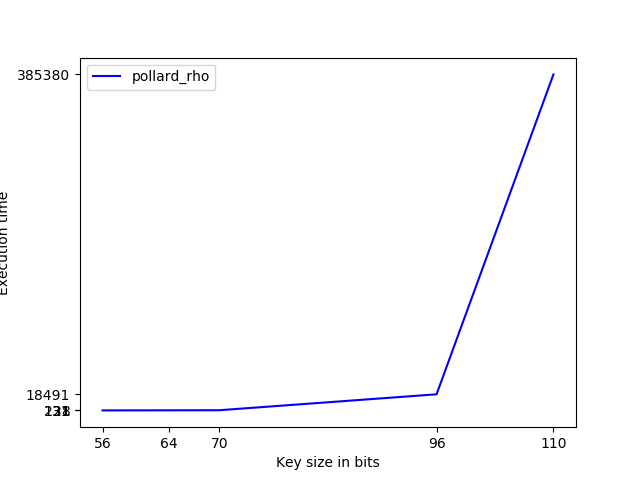
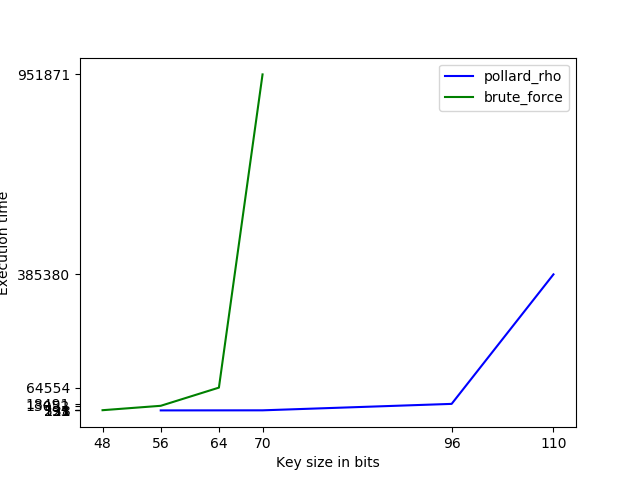
added parallel pollard_rho

diff --git a/factorizer/rsa_brent_pollard_rho.py b/factorizer/rsa_brent_pollard_rho.py
@@ -11,27 +11,31 @@ class rsa_brent_pollard_rho(implements(rsa_factorizer)):
         self.n = n
         self.e = e
 
-    def factorize(self):
+    def factorize(self, f = lambda u: u ** 2 + 1):
         y, c, m = random.randint(1, self.n - 1), random.randint(1, self.n - 1), random.randint(1, self.n - 1)
-        g, r, q = 1, 1, 1
-        while g == 1:
+        p, r, q = 1, 1, 1
+        while p == 1:
             x = y
             for i in range(r):
-                y = ((y * y) % self.n + c) % self.n
+                y = f(y) % self.n
             k = 0
-            while k < r and g == 1:
+            while k < r and p == 1:
                 ys = y
                 for i in range(min(m, r - k)):
-                    y = ((y * y) % self.n + c) % self.n
+                    y = f(y) % self.n
                     q = q * (abs(x - y)) % self.n
-                g = math.gcd(q, self.n)
+                p = math.gcd(q, self.n)
                 k = k + m
             r *= 2
-        if g == self.n:
+        if p == self.n:
             while True:
-                ys = ((ys * ys) % self.n + c) % self.n
-                g = math.gcd(abs(x - ys), self.n)
-                if g > 1:
+                ys = f(ys) % self.n
+                p = math.gcd(abs(x - ys), self.n)
+                if p > 1:
                     break
 
-        return g, int(self.n/g)
+        return p, int(self.n / p)
+
+if __name__ == "__main__":
+    factorizer =  rsa_brent_pollard_rho(21)
+    factorizer.factorize()

diff --git a/factorizer/rsa_pollard_rho_parallel.py b/factorizer/rsa_pollard_rho_parallel.py
@@ -1,0 +1,25 @@
+from multiprocessing import Queue
+from multiprocessing import Process
+
+from interface import implements
+
+from factorizer.rsa_factorizer import rsa_factorizer
+from factorizer.rsa_pollard_rho import rsa_pollard_rho
+
+
+def worker(n, e, q):
+    fac = rsa_pollard_rho(n, e)
+    q.put(fac.factorize())
+
+
+class rsa_pollard_rho_parallel(implements(rsa_factorizer)):
+    def __init__(self, n, e):
+        self.n = n
+        self.e = e
+
+    def factorize(self, f = lambda u: u ** 2 + 1):
+        q = Queue()
+        process = [Process(target=worker, args=(self.n, self.e, q,)) for i in range(4)]
+        for t in process:
+            t.start()
+        return q.get()

diff --git a/factorizer/rsa_pollard_rho.py b/factorizer/rsa_pollard_rho.py
@@ -22,3 +22,4 @@ class rsa_pollard_rho(implements(rsa_factorizer)):
             if p == self.n:
                 return self.factorize(f)
         return p, int(self.n / p)
+
